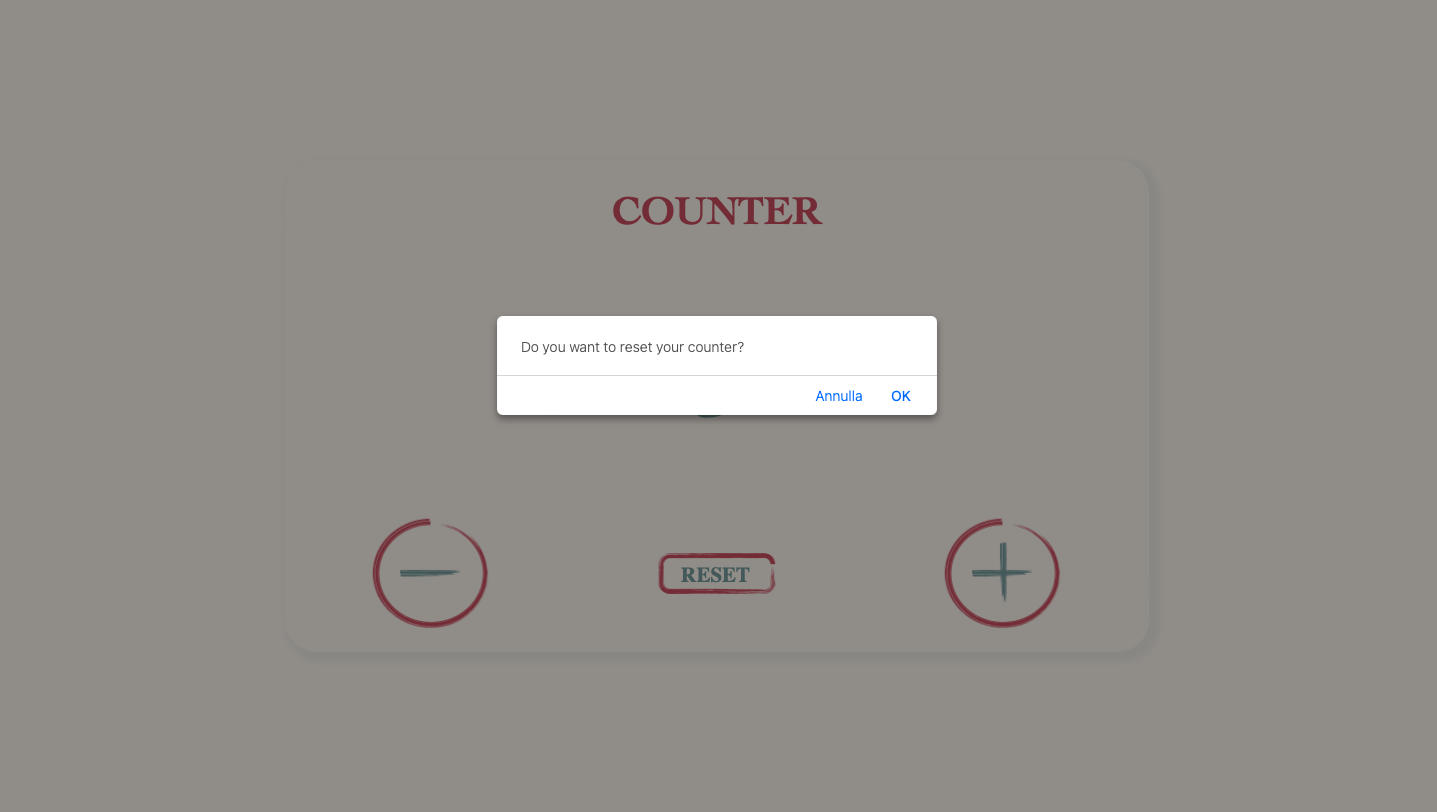
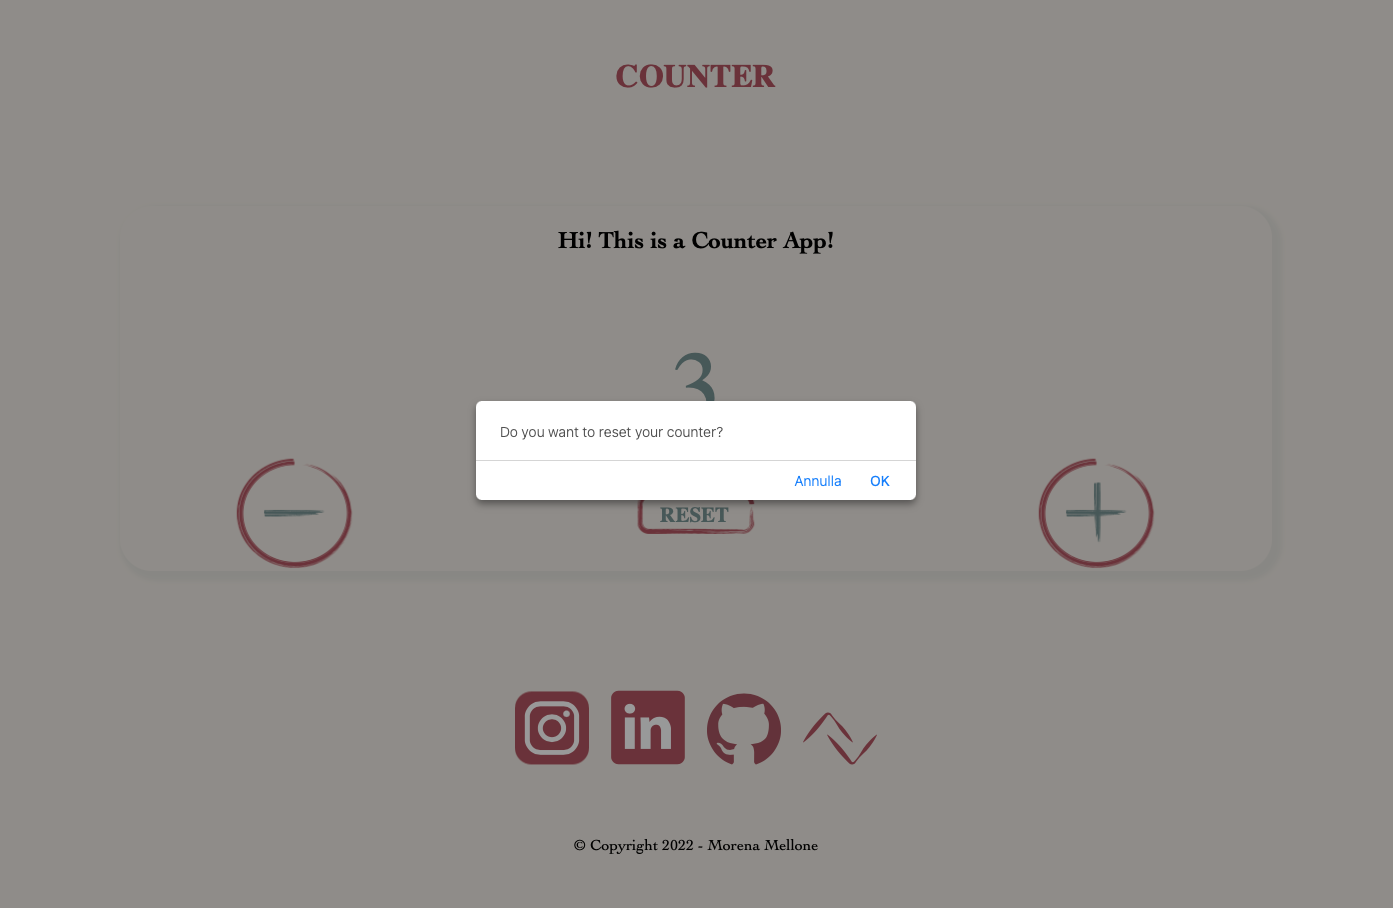
readme

diff --git a/assets/css/style.css b/assets/css/style.css
@@ -24,19 +24,18 @@
 
   .container h1 {
     text-align: center;
-    font-size: 2.5em;
     color: #b3535f;
     font-family: Cambria, Cochin, Georgia, Times, 'Times New Roman', serif;
   }
 
   h1{
     color: #b3535f;
-    font-size: 2.5em;
+    font-size: 32px;
   }
 
   h2 {
     text-align: center;
-    font-size: 1.5em;
+    font-size: 24px;
     color: black;
     font-family: Cambria, Cochin, Georgia, Times, 'Times New Roman', serif;
   }
@@ -71,14 +70,30 @@
   }
 
   @media screen and (max-width: 1300px) {
+    h1{
+      font-size: 24px;
+    }
+  
+    h2 {
+      font-size: 20px;
+    }
+
     .img {
       width: 60px;
     }
   }
 
   @media screen and (max-width: 600px) {
+    h1{
+      font-size: 20px;
+    }
+  
+    h2 {
+      font-size: 16px;
+    }
+
     .img {
-      width: 32px;
+      width: 48px;
     }
   }
   
